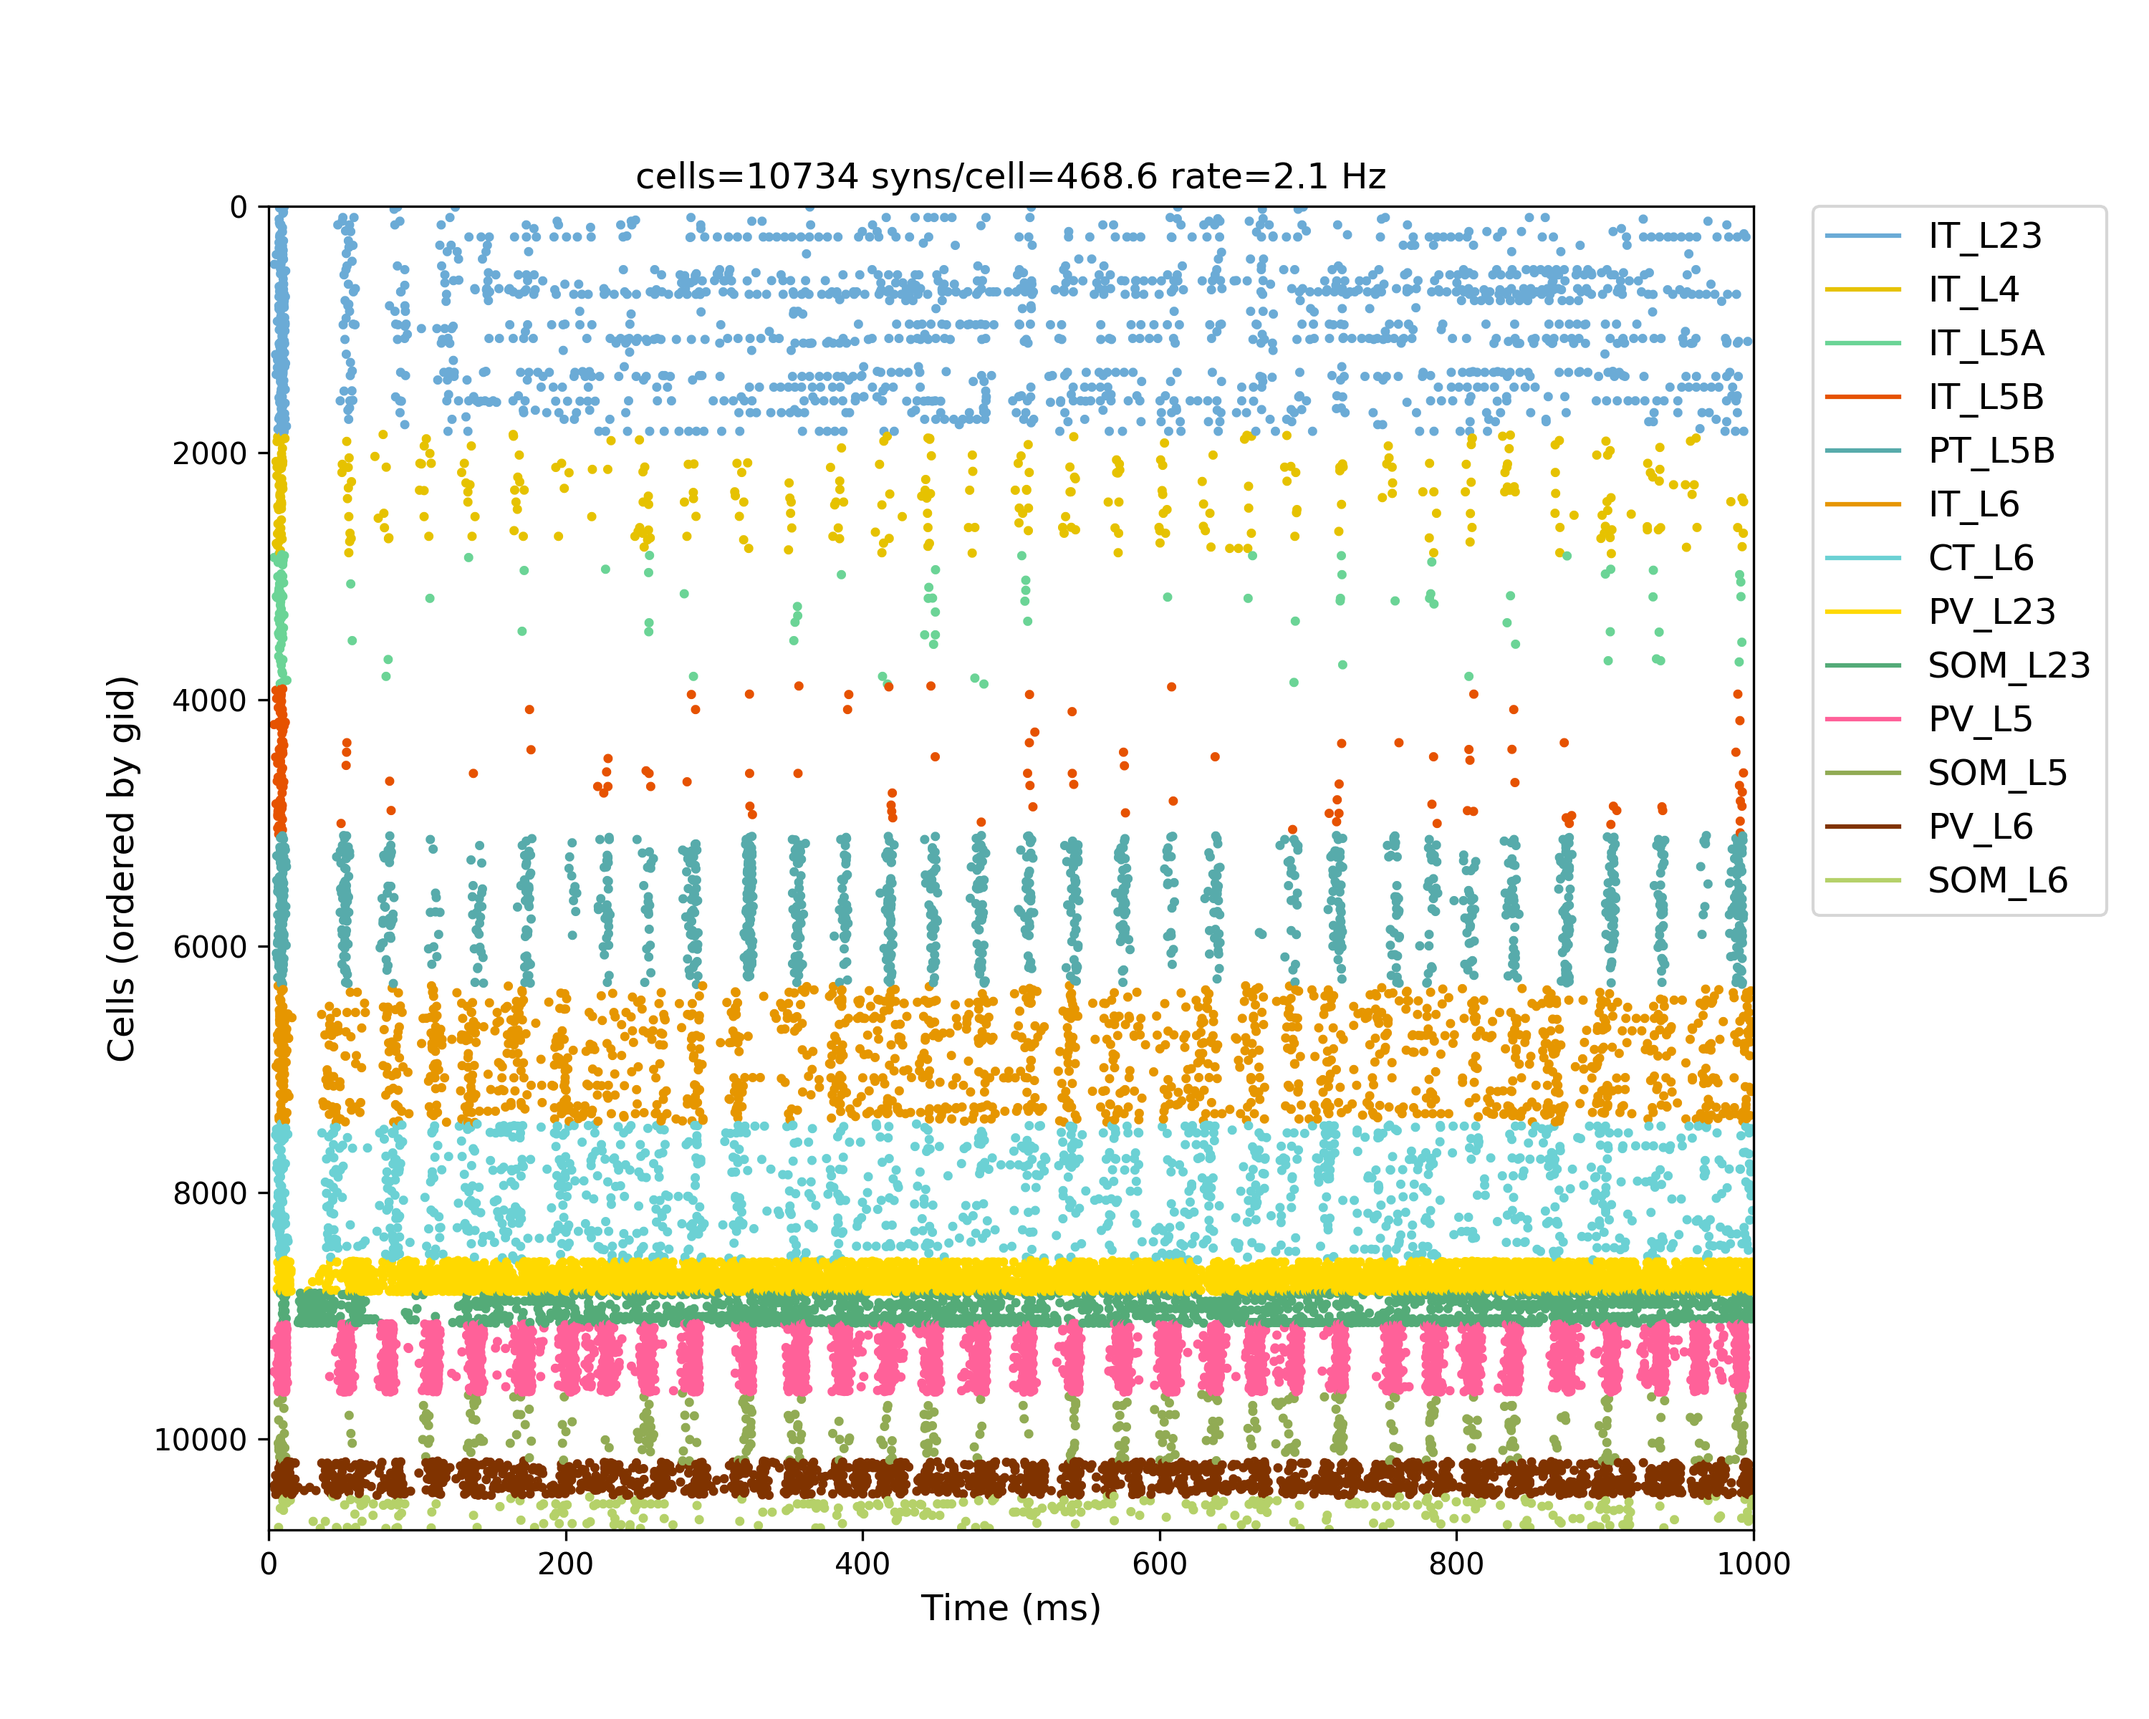
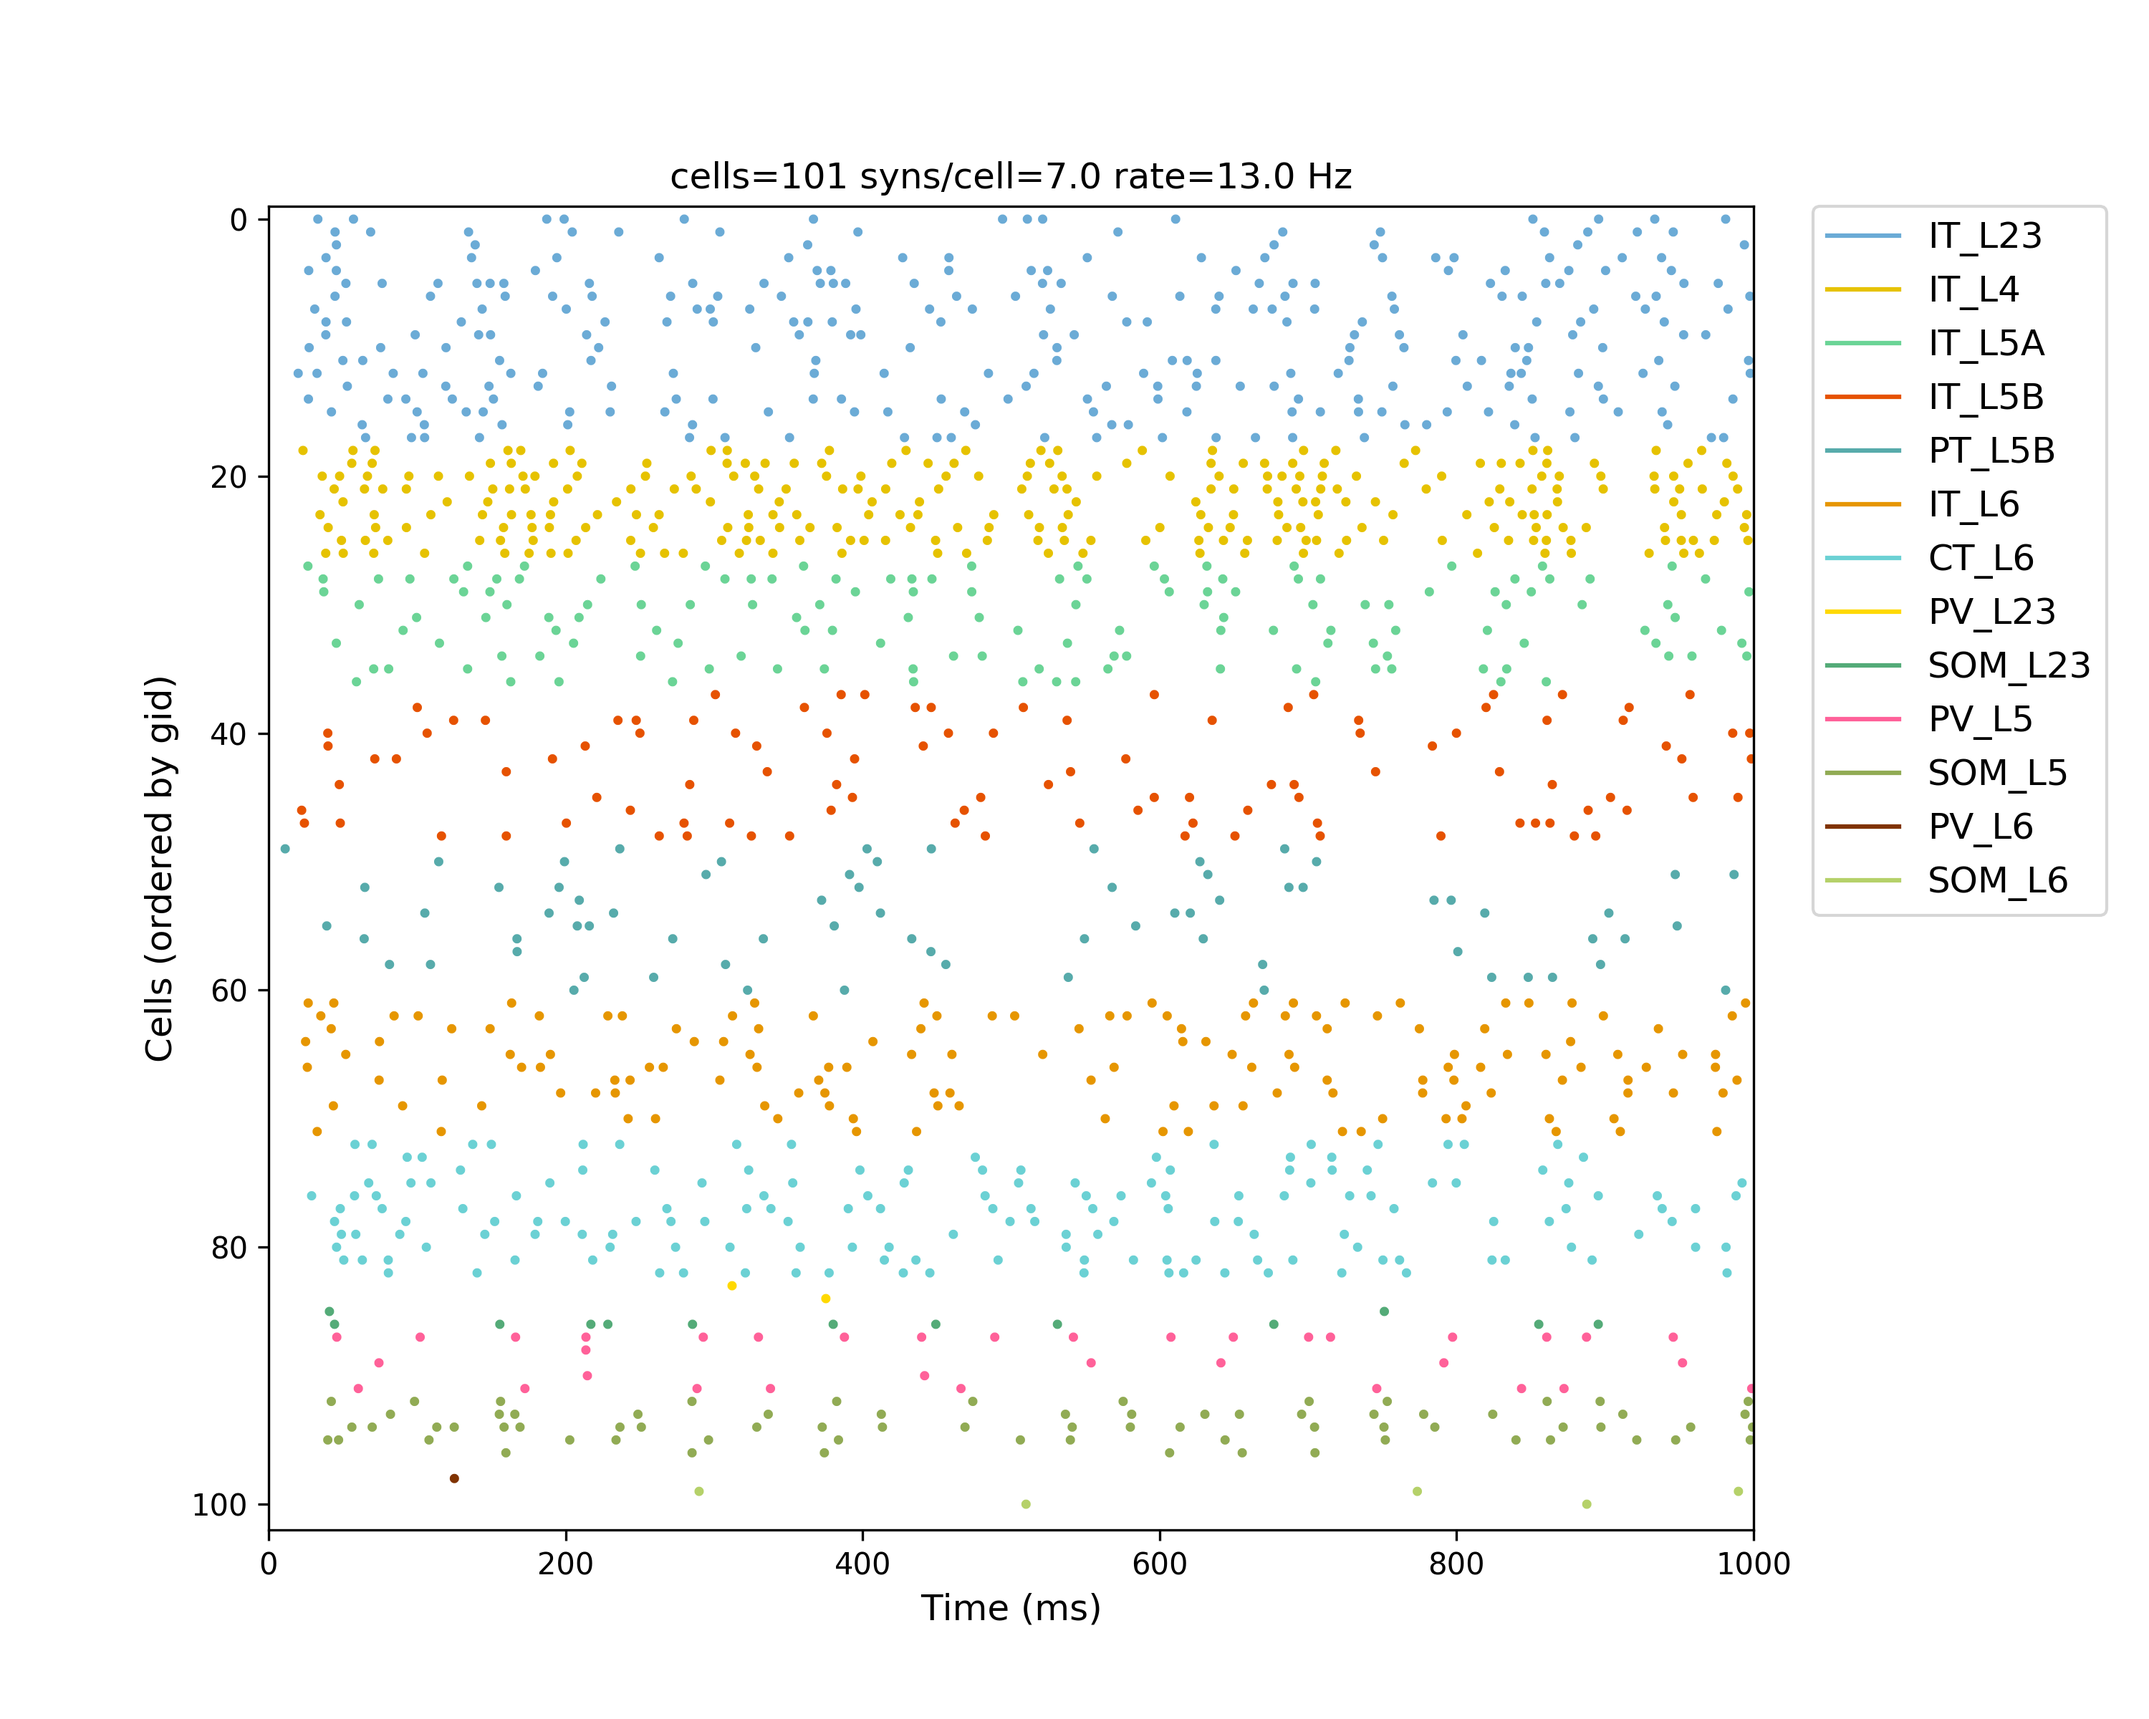
tuned to improve traces

Changed region(s): [[0.031, 0.0938, 0.837, 0.9062], [0.62, 0.3438, 0.651, 0.375], [0.31, 0.375, 0.341, 0.4062]]

diff --git a/M1.py b/M1.py
@@ -24,8 +24,8 @@ simConfig = specs.SimConfig()   # object of class SimConfig to store the simulat
 ###############################################################################
 
 # Simulation parameters
-simConfig.duration = 1*1e3 # Duration of the simulation, in ms
-simConfig.dt = 0.1 # Internal integration timestep to use
+simConfig.duration = 1.0*1e3 # Duration of the simulation, in ms
+simConfig.dt = 0.05 # Internal integration timestep to use
 simConfig.seeds = {'conn': 1, 'stim': 1, 'loc': 1} # Seeds for randomizers (connectivity, input stimulation and cell locations)
 simConfig.createNEURONObj = 1  # create HOC objects when instantiating network
 simConfig.createPyStruct = 1  # create Python structure (simulator-independent) when instantiating network
@@ -56,7 +56,7 @@ simConfig.saveHDF5 = False # save to HDF5 file
 
 # Analysis and plotting 
 simConfig.analysis['plotRaster'] = {'orderInverse': True, 'marker': '.', 'dpi': 300, 'saveFig': 'raster.png'} # Whether or not to plot a raster
-simConfig.analysis['plotTraces'] = {'include': [('IT_L23',20), ('PT_L5B',20)]} # plot recorded traces for this list of cells
+simConfig.analysis['plotTraces'] = {'include': [('IT_L23',2),('IT_L5A',2), ('PT_L5B',2), ('PV_L23',2)]} # plot recorded traces for this list of cells
 simConfig.analysis['plot2Dnet'] = {'showConns': False}
 
 
@@ -67,13 +67,13 @@ simConfig.analysis['plot2Dnet'] = {'showConns': False}
 
 # General network parameters
 netParams.scale = 1 # Scale factor for number of cells
-netParams.sizeX = 300 # x-dimension (horizontal length) size in um
+netParams.sizeX = 30 # x-dimension (horizontal length) size in um
 netParams.sizeY = 1350 # y-dimension (vertical height or cortical depth) size in um
-netParams.sizeZ = 300 # z-dimension (horizontal depth) size in um
+netParams.sizeZ = 30 # z-dimension (horizontal depth) size in um
 
 ## General connectivity parameters
-netParams.scaleConnWeight = 0.05 # Connection weight scale factor
-netParams.scaleConnWeightNetStims = 1.0 # Connection weight scale factor for NetStims
+netParams.scaleConnWeight = 0.01 # Connection weight scale factor
+netParams.scaleConnWeightNetStims = 0.25 # Connection weight scale factor for NetStims
 netParams.defaultDelay = 2.0 # default conn delay (ms)
 netParams.propVelocity = 100.0 # propagation velocity (um/ms)
 netParams.probLambda = 100.0  # length constant (lambda) for connection probability decay (um)
@@ -100,6 +100,7 @@ izhiParams['RS'] = {'mod':'Izhi2007b', 'C':1, 'k':0.7, 'vr':-60, 'vt':-40, 'vpea
 izhiParams['IB'] = {'mod':'Izhi2007b', 'C':1.5, 'k':1.2, 'vr':-75, 'vt':-45, 'vpeak':50, 'a':0.01, 'b':5, 'c':-56, 'd':130, 'celltype':2}
 izhiParams['LTS'] = {'mod':'Izhi2007b', 'C':1.0, 'k':1.0, 'vr':-56, 'vt':-42, 'vpeak':40, 'a':0.03, 'b':8, 'c':-53, 'd':20, 'celltype':4}
 izhiParams['FS'] = {'mod':'Izhi2007b', 'C':0.2, 'k':1.0, 'vr':-55, 'vt':-40, 'vpeak':25, 'a':0.2, 'b':-2, 'c':-45, 'd':-55, 'celltype':5}
+
 
 ## IT cell params
 cellRule = {'conds': {'cellType': 'IT'}, 'secs': {}}
@@ -137,24 +138,24 @@ cellRule['secs']['soma']['pointps']['Izhi'] = izhiParams['FS']
 netParams.cellParams['PV'] = cellRule  # add dict to list of cell properties
 
 # Synaptic mechanism parameters
-netParams.synMechParams['AMPA'] = {'mod': 'Exp2Syn', 'tau1': 0.05, 'tau2': 5.3, 'e': 0}  # AMPA
+netParams.synMechParams['AMPA'] = {'mod': 'Exp2Syn', 'tau1': 0.05, 'tau2': 2.3, 'e': 0}  # AMPA
 netParams.synMechParams['NMDA'] = {'mod': 'Exp2Syn', 'tau1': 0.15, 'tau2': 15, 'e': 0}  # NMDA
 netParams.synMechParams['GABAA'] = {'mod': 'Exp2Syn', 'tau1': 0.07, 'tau2': 9.1, 'e': -80}  # GABAA
 netParams.synMechParams['GABAB'] = {'mod': 'Exp2Syn', 'tau1': 0.07, 'tau2': 9.1, 'e': -80}  # GABAB
 
 
 # Stimulation parameters
-netParams.stimSourceParams['background_E']  = {'type': 'NetStim', 'rate': 20, 'noise': 0.5} # background inputs to Exc
-netParams.stimSourceParams['background_I']  = {'type': 'NetStim', 'rate': 20, 'noise': 0.5} # background inputs to Inh
+netParams.stimSourceParams['background_E']  = {'type': 'NetStim', 'rate': 20, 'noise': 1.0} # background inputs to Exc
+netParams.stimSourceParams['background_I']  = {'type': 'NetStim', 'rate': 20, 'noise': 1.0} # background inputs to Inh
 
 netParams.stimTargetParams['bgE->IT,CT'] = {'source': 'background_E', 'conds': {'cellType': ['IT','CT']}, 
-                                            'synMech': 'NMDA', 'weight': 0.1, 'delay': 'normal(5,3)'}  
+                                            'synMech': 'AMPA', 'weight': 0.1, 'delay': '2+normal(5,3)'}  
 netParams.stimTargetParams['bgE->PT'] = {'source': 'background_E', 'conds': {'cellType': ['PT']}, 
-                                            'synMech': 'NMDA', 'weight': 0.1, 'delay': 'normal(5,3)'}  
+                                            'synMech': 'AMPA', 'weight': 0.1, 'delay': '2+normal(5,3)'}  
 netParams.stimTargetParams['bgI->PV'] = {'source': 'background_E', 'conds': {'cellType': ['PV']}, 
-                                            'synMech': 'NMDA', 'weight': 0.05, 'delay': 'normal(5,3)'}  
+                                            'synMech': 'AMPA', 'weight': 0.05, 'delay': '2+normal(5,3)'}  
 netParams.stimTargetParams['bgI->SOM'] = {'source': 'background_E', 'conds': {'cellType': ['SOM']}, 
-                                            'synMech': 'NMDA', 'weight': 0.03, 'delay': 'normal(5,3)'}  
+                                            'synMech': 'AMPA', 'weight': 0.03, 'delay': '2+normal(5,3)'}  
 
 # List of connectivity rules/params
 netParams.ItoIweight = 0.5
